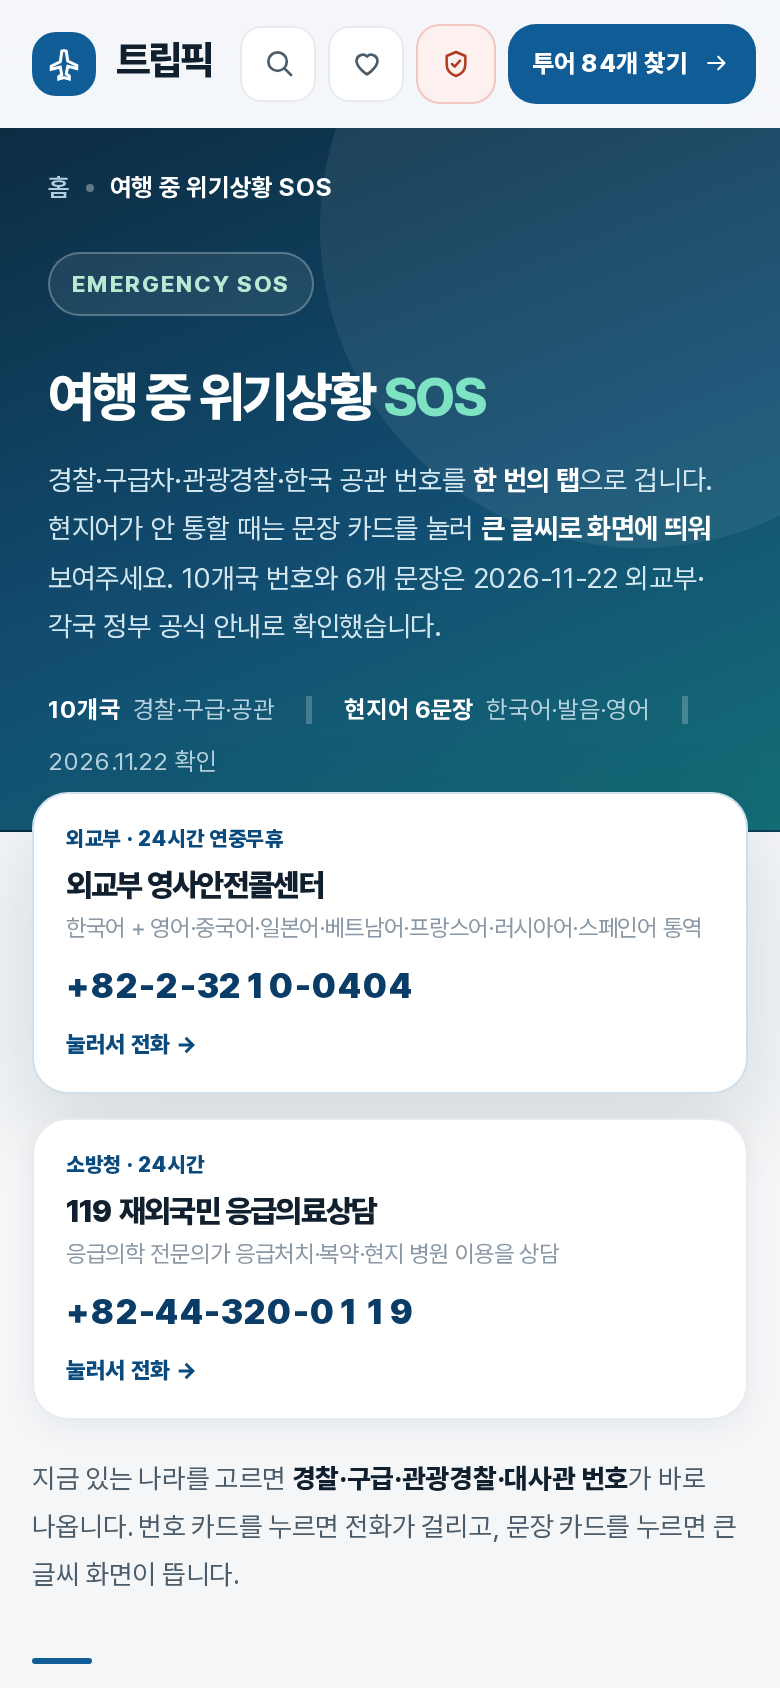
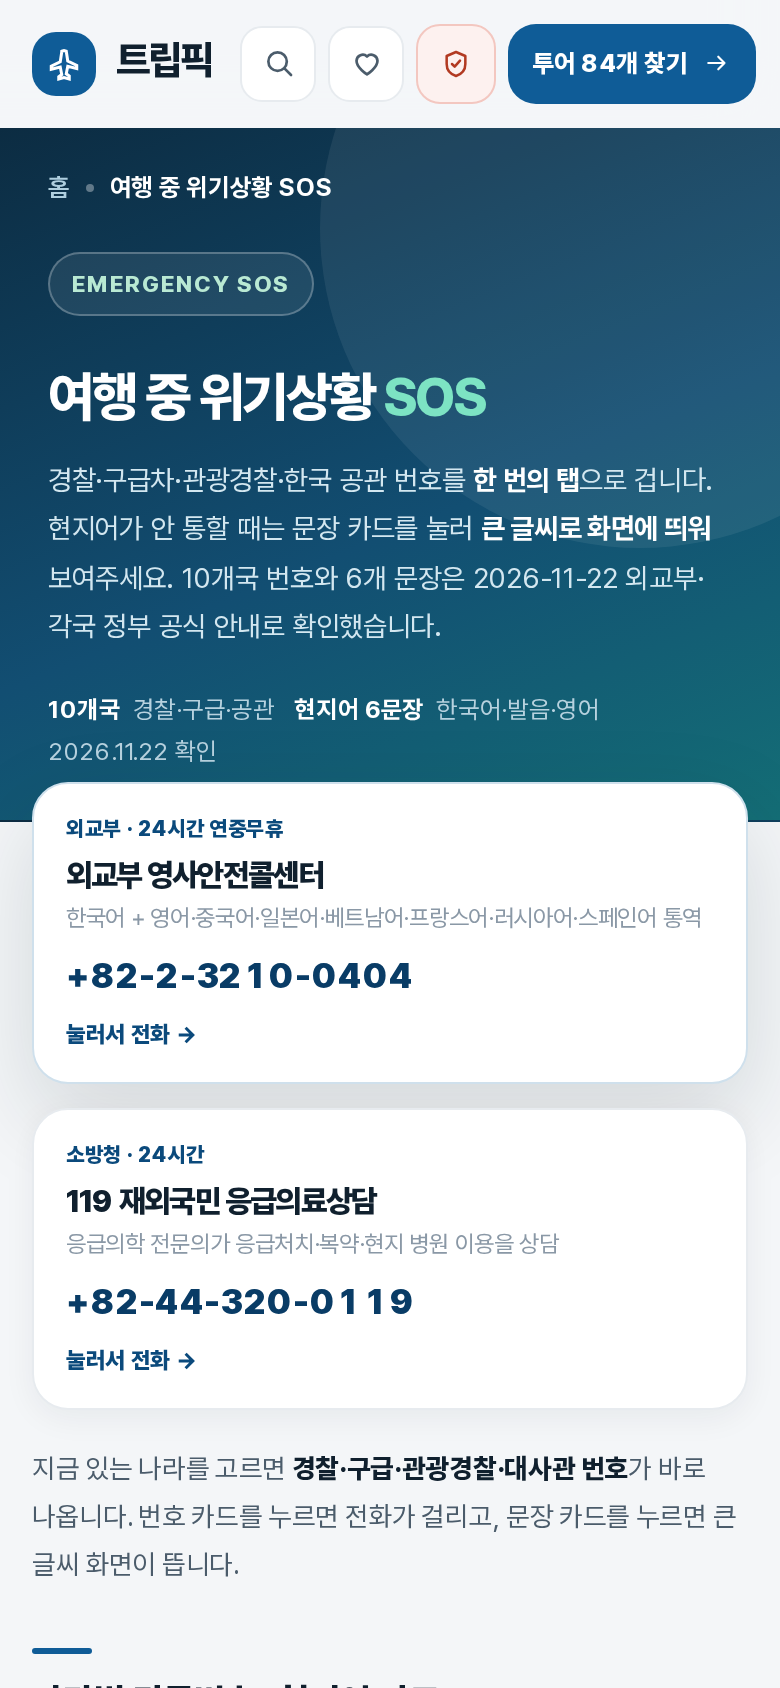
v44: README 라이브 검증 기록(122 URL 전부 200·/sos 10개국·현지어 카드)

diff --git a/README.md b/README.md
@@ -106,7 +106,7 @@ python3 build_pages.py --out ../deploy_site --base https://trippick-kr.netlify.a
 
 ## 변경 기록
 
-- **v44 (2026-11-22)** — **여행 중 위기상황 SOS `/sos` 신설 · 실전 가이드 3편(94편) · 보조배터리 기준 통일**: ① **`/sos` 정식 페이지** — 10개국(한국·일본·태국·베트남·대만·싱가포르·프랑스·이탈리아·스페인·영국)의 경찰·구급·소방·관광경찰·대사관·영사콜센터 번호 **79개**를 국가 탭으로 나누고, 번호 카드를 누르면 `tel:`로 바로 걸립니다(링크 121개). 상단에 **영사안전콜센터 +82-2-3210-0404**(24시간·7개 언어 통역)와 **119 재외국민 응급의료상담 +82-44-320-0119**(24시간·응급의학 전문의)를 고정 카드로 두고, 각국 **현지어 카드 6문장**(도와주세요·한국어 통역 부탁해요·여권을 잃어버렸어요·병원에 가야 해요·경찰을 불러 주세요·약국이 어디예요)을 누르면 **큰 글씨 전체 화면**(390px에서 39px, Esc·바깥 클릭으로 닫기, 포커스 복귀)으로 띄웁니다. 국가 선택은 `localStorage.trippick.sos.cc`에 남아 재방문 때도 유지되고, **JS가 없거나 인쇄할 때를 위해 10개국 번호 전체 표**(`sos-tb`)를 같은 페이지에 두었습니다. 화면 FAQ 5문항 + `WebPage`·`FAQPage`·`BreadcrumbList` JSON-LD, 2026-11-22 외교부·소방청·각국 정부 공식 안내 확인. ② **진입점** — 헤더 **도구 드롭다운 첫 항목**, 푸터 「여행」열, 그리고 이 사이트 헤더는 900px 이하에서 주요 메뉴가 숨으므로 **모바일 전용 SOS 버튼**(`hd-sos`, 560px 이하에서는 방패 아이콘만)을 헤더에 상시 노출했습니다. 위기상황 가이드 2편(여권·휴대폰·지갑 분실 / 해외 배탈·병원·보험 청구) 도입부에 「전화가 급하면 이 화면부터」 콜아웃으로 연결했고, 퀵서치 색인에도 `page` 종류(`/sos`)로 넣어 「경찰·병원·대사관」으로도 찾힙니다. ③ **실전 가이드 3편(91 → 94편)** — `passport-phone-lost-emergency`(분실 첫 10분 표, 긴급여권 공관별 실제 수수료 — 오사카 6,500엔·방콕 1,700바트·호치민 48달러·파리 43.20유로·타이베이 NT$1,536·한국 5만원, 통신사 분실정지 3사 번호, 신속해외송금 3,000달러), `overseas-sick-hospital-insurance-claim`(10개국 응급번호 표, 구급차 판단 신호, 인터내셔널 클리닉 vs 응급실, 약국 문장, 보험 청구 원본·진단명·처방전), `travel-hacks-hotel-flight-restaurant`(꿀팁 15선 — 체크인 48시간·미주 24시간, 얼리체크인 24시간 전 요청, DCC 3~8% 차단, 시차 동쪽 1시간/서쪽 1.5시간 등). 세 편 모두 목차·FAQ 5문항·FAQPage·히어로 1200×800·OG 1200×630(`images/v44/`, `images/og/v44-*`)이고 기존 가이드 7곳과 양방향으로 연결했습니다. ④ **보조배터리 기준 통일** — 기존 `packing-powerbank-liquid`는 이미 2026-04-20 ICAO 기준(1인 2개·160Wh 이하, 100Wh 초과~160Wh 승인, 교체용 100Wh 이하 5개, 기내 사용·충전 금지)으로 맞춰져 있었고, 새 꿀팁 글의 문장을 같은 숫자·같은 구분(100Wh 이하 승인 없이 / 100~160Wh 승인 / 교체용 5개)으로 고쳐 두 글의 기준을 일치시켰습니다. **검증**: `build.py` → 상품 84·도시 30·필수품 59, `build_pages.py --out ../deploy_site --base https://trippick.pages.dev --check-links` **HTML 125개·내부 링크 12,162개 실패 0**, `verify_v36.py` 전 항목 통과(페이지 123·가이드 94·찐숙소 102·sitemap **122 URL**·제휴 링크 1,708개·인라인 스크립트 230개), `verify_v41.py`(색인 386건)·`verify_v42.py`(파인더 13도시·sitemap 122)·`verify_v43.py`(★ 버튼 94편·sitemap 122)·`verify_v44.py`(신규, `/sos` 탭 10·tel 121·현지어 60·표·진입점·action.md 122개) 모두 통과. Chrome for Testing 1280·390px에서 `/sos` — 국가 전환(태국 191·1669·1155 tel 확인), 큰 글씨 카드(내용 일치·Esc 닫기), **가로 넘침 0·pageerror 0·콘솔 오류 0**을 확인했고, 가이드에서 `/sos`로 이동하는 콜아웃도 클릭으로 확인했습니다. CSS는 `?v=41`, 퀵서치는 `assets/tp-v43.js?v=2`, `/sos`는 `assets/tp-v44.js?v=1`. GSC 색인 요청 `action.md`는 사이트맵 기준을 **121 → 122개**로 올리고 `/sos` URL을 추가했습니다(프론트매터 유지). 대표 화면은 `v44_shots/sos_1280_top.png`·`sos_1280_th.png`·`sos_1280_table.png`·`sos_390_top.png`·`sos_390_jp.png`·`sos_390_phrase.png`·`sos_home_dropdown.png`입니다.
+- **v44 (2026-11-22)** — **여행 중 위기상황 SOS `/sos` 신설 · 실전 가이드 3편(94편) · 보조배터리 기준 통일**: ① **`/sos` 정식 페이지** — 10개국(한국·일본·태국·베트남·대만·싱가포르·프랑스·이탈리아·스페인·영국)의 경찰·구급·소방·관광경찰·대사관·영사콜센터 번호 **79개**를 국가 탭으로 나누고, 번호 카드를 누르면 `tel:`로 바로 걸립니다(링크 121개). 상단에 **영사안전콜센터 +82-2-3210-0404**(24시간·7개 언어 통역)와 **119 재외국민 응급의료상담 +82-44-320-0119**(24시간·응급의학 전문의)를 고정 카드로 두고, 각국 **현지어 카드 6문장**(도와주세요·한국어 통역 부탁해요·여권을 잃어버렸어요·병원에 가야 해요·경찰을 불러 주세요·약국이 어디예요)을 누르면 **큰 글씨 전체 화면**(390px에서 39px, Esc·바깥 클릭으로 닫기, 포커스 복귀)으로 띄웁니다. 국가 선택은 `localStorage.trippick.sos.cc`에 남아 재방문 때도 유지되고, **JS가 없거나 인쇄할 때를 위해 10개국 번호 전체 표**(`sos-tb`)를 같은 페이지에 두었습니다. 화면 FAQ 5문항 + `WebPage`·`FAQPage`·`BreadcrumbList` JSON-LD, 2026-11-22 외교부·소방청·각국 정부 공식 안내 확인. ② **진입점** — 헤더 **도구 드롭다운 첫 항목**, 푸터 「여행」열, 그리고 이 사이트 헤더는 900px 이하에서 주요 메뉴가 숨으므로 **모바일 전용 SOS 버튼**(`hd-sos`, 560px 이하에서는 방패 아이콘만)을 헤더에 상시 노출했습니다. 위기상황 가이드 2편(여권·휴대폰·지갑 분실 / 해외 배탈·병원·보험 청구) 도입부에 「전화가 급하면 이 화면부터」 콜아웃으로 연결했고, 퀵서치 색인에도 `page` 종류(`/sos`)로 넣어 「경찰·병원·대사관」으로도 찾힙니다. ③ **실전 가이드 3편(91 → 94편)** — `passport-phone-lost-emergency`(분실 첫 10분 표, 긴급여권 공관별 실제 수수료 — 오사카 6,500엔·방콕 1,700바트·호치민 48달러·파리 43.20유로·타이베이 NT$1,536·한국 5만원, 통신사 분실정지 3사 번호, 신속해외송금 3,000달러), `overseas-sick-hospital-insurance-claim`(10개국 응급번호 표, 구급차 판단 신호, 인터내셔널 클리닉 vs 응급실, 약국 문장, 보험 청구 원본·진단명·처방전), `travel-hacks-hotel-flight-restaurant`(꿀팁 15선 — 체크인 48시간·미주 24시간, 얼리체크인 24시간 전 요청, DCC 3~8% 차단, 시차 동쪽 1시간/서쪽 1.5시간 등). 세 편 모두 목차·FAQ 5문항·FAQPage·히어로 1200×800·OG 1200×630(`images/v44/`, `images/og/v44-*`)이고 기존 가이드 7곳과 양방향으로 연결했습니다. ④ **보조배터리 기준 통일** — 기존 `packing-powerbank-liquid`는 이미 2026-04-20 ICAO 기준(1인 2개·160Wh 이하, 100Wh 초과~160Wh 승인, 교체용 100Wh 이하 5개, 기내 사용·충전 금지)으로 맞춰져 있었고, 새 꿀팁 글의 문장을 같은 숫자·같은 구분(100Wh 이하 승인 없이 / 100~160Wh 승인 / 교체용 5개)으로 고쳐 두 글의 기준을 일치시켰습니다. **검증**: `build.py` → 상품 84·도시 30·필수품 59, `build_pages.py --out ../deploy_site --base https://trippick.pages.dev --check-links` **HTML 125개·내부 링크 12,162개 실패 0**, `verify_v36.py` 전 항목 통과(페이지 123·가이드 94·찐숙소 102·sitemap **122 URL**·제휴 링크 1,708개·인라인 스크립트 230개), `verify_v41.py`(색인 386건)·`verify_v42.py`(파인더 13도시·sitemap 122)·`verify_v43.py`(★ 버튼 94편·sitemap 122)·`verify_v44.py`(신규, `/sos` 탭 10·tel 121·현지어 60·표·진입점·action.md 122개) 모두 통과. Chrome for Testing 1280·390px에서 `/sos` — 국가 전환(태국 191·1669·1155 tel 확인), 큰 글씨 카드(내용 일치·Esc 닫기), **가로 넘침 0·pageerror 0·콘솔 오류 0**을 확인했고, 가이드에서 `/sos`로 이동하는 콜아웃도 클릭으로 확인했습니다. CSS는 `?v=42`, 퀵서치는 `assets/tp-v43.js?v=2`, `/sos`는 `assets/tp-v44.js?v=1`. GSC 색인 요청 `action.md`는 사이트맵 기준을 **121 → 122개**로 올리고 `/sos` URL을 추가했습니다(프론트매터 유지). 대표 화면은 `v44_shots/sos_1280_top.png`·`sos_1280_th.png`·`sos_1280_table.png`·`sos_390_top.png`·`sos_390_jp.png`·`sos_390_phrase.png`·`sos_home_dropdown.png`입니다. **라이브 확인(2026-11-22 21:08 KST·커밋 `c1c903e`)**: `sitemap.xml` **122 URL 전부 HTTP 200**(중복 0, `/sos` 포함), `/sos`(77,062B) — 국가 탭 10·번호 카드 79·현지어 카드 60·`tel:` 링크 121·화면 FAQ 5, canonical `https://trippick.pages.dev/sos`, `assets/tp-v44.js?v=1`·`assets/site.css?v=42` 로드 확인. Chrome for Testing 라이브 1280·390px에서 국가 전환(베트남 113·115·1087), 큰 글씨 카드(프랑스어 37자 2줄·오버레이 넘침 0·Esc 닫기·포커스 복귀), 홈 도구 드롭다운과 여권 분실 가이드 콜아웃 → `/sos` 이동, **가로 넘침 0·pageerror 0·콘솔 오류 0**을 확인했습니다. 라이브 화면은 `v44_shots/sos_live_1280.png`·`sos_live_390.png`·`sos_live_1280_phrase.png`·`sos_390_fr_interp.png`입니다.
 
 - **v43 (2026-11-22)** — **재방문 루프(내 여행 D-Day) · 가이드 ★ 참고 글 저장 · 실전 가이드 3편(91편)**: ① **내 여행 D-Day** — 홈 `#planner` 위와 `/checklist` 상단에 **도시(13곳) + 출발일**을 넣는 콤팩트 바를 두고, 저장하면 `localStorage.trippick.trip.v1`에 남겨 **재방문 때마다 자동으로** `내 여행 D-9 · 오사카 · 지금 할 일` 패널을 그립니다. 단계는 **D-14(투어·eSIM) → D-7(서류·보험) → D-3(짐·환전) → D-1(체크인·서류) → 현지(도착 후)** 5개이고, 선택된 단계에 맞춰 할 일 3개(각 `/passes`·`/baggage`·`/exchange`·`/checklist` 등 실제 페이지로 이동), 그 도시 **필수 가이드 2편**, **미예약 필수품 CTA**(일본 eSIM 3일 16,830원·베트남 17,850원·태국 14,450원·대만 12,580원, 국내는 `/stays`)를 함께 보여 줍니다. 값은 `build.py`가 `city_hubs.json`·`guides.json`·`essentials.json`에서 만들어 `#tpTripData` JSON으로 심고, JS는 D-day를 로컬 날짜로 계산합니다(자정 기준). 다른 페이지(가이드·도시·도구)에서는 저장된 여행이 있으면 **헤더 아래 얇은 띠**(`D-18 도쿄 · 지금 할 일 보기 → /#tpTrip`)로 이어지고, 홈·`/checklist`처럼 위젯이 있는 페이지에는 띠를 띄우지 않습니다. 수정·삭제 버튼과 “이 브라우저에만 저장” 안내를 넣었습니다. ② **★ 참고 글 저장** — 가이드 **91편 전체**의 상단 메타 아래에 `★ 참고 글 저장` 토글(`data-bm="/guides/<slug>.html"`, `localStorage.trippick.bookmarks.v1`)을 넣고, 헤더 ♥ 찜/견적 모달(`data-wl-open`) 안에 **「★ 저장한 참고 글 N편」** 섹션(제목·분류·읽기 시간·`빼기`)을 함께 띄웁니다. v42의 찜 견적서(1박·1인 합산·복사·스텝퍼)와 비교 바구니는 `content/v43.js`(→`assets/tp-v43.js`)에 그대로 이어받았고, 찜이 비어 있어도 저장한 참고 글이 보이도록 모달 렌더를 고쳤습니다. ③ **가이드 3편(88 → 91편)** — `airport-arrival-city-transfer-guide`(오사카 간사이 970엔·23:55, 도쿄 나리타 1,060엔·하네다 330엔·0:08, 후쿠오카 260엔·0:35, 방콕 45밧·24:00, 다낭 그랩 7만~15만동, 타이베이 160대만달러·23:35와 심야 도착 대안, 2인 왕복 최저 7,110~35,550원), `japan-convenience-store-must-buy`(파미치킨 248엔·나나치키 250.56엔·카라아게군 288엔·주먹밥 146~290엔, 600엔 이하 조합 3가지, 포장 8% vs 이트인 10%, 카카오페이·네이버페이 PayPay QR·트래블카드·세븐은행 ATM), `overseas-roaming-esim-install-troubleshooting`(데이터 회선→eSIM 회선 사용→데이터 로밍 1분 점검, 아이폰·갤럭시 설정 경로, 원인 7가지, 데이터 전환 허용 끄기, 로밍 9,900원 vs eSIM 590원·2인 4일 74,480원 차이, QR 1회용·삭제 금지). 세 편 모두 `auto_toc` 목차·읽기 시간·FAQ 5문항·FAQPage·1200×630 OG(`images/og/v43-*`)·히어로 1200×800·본문 `rel="noopener sponsored"` 제휴 링크를 갖고, 기존 공항·편의점·eSIM 가이드와 `guide_actions`의 `/stays`·`/checklist`, 본문의 `/passes`·도시 허브(오사카·도쿄·후쿠오카·다낭·방콕·타이베이)와 양방향으로 연결했습니다. 사진은 Wikimedia Commons CC0(간사이공항 난카이 개찰구)·Pexels 2장(주먹밥 진열대 Markus Winkler, eSIM 활성화 Joey Tran)이고 출처는 `data/photo_credits.json`에 남겼습니다. ④ **검증** — `build.py`(상품 84·도시 30·필수품 59) → `build_pages.py --out ../deploy_site --base https://trippick.pages.dev --check-links` **HTML 121개·내부 링크 11,461개 실패 0**, `verify_v36.py` 전 항목 통과(가이드 91·찐숙소 102·sitemap **118 URL**·제휴 링크 1,699개·인라인 스크립트 223개·구 유로 환율 0), `verify_v41.py`(색인 382건·가이드 91)·`verify_v42.py`(찜 견적서·파인더 13개 도시)·`verify_v43.py`(신규 3편 목차·FAQ·OG·양방향 연결, ★ 버튼 91편, D-Day 13도시 5단계, action.md 118개) 모두 통과. `tools/verify_v41.py`·`verify_v42.py`는 가이드 편수·자산 이름을 데이터/최신 자산(`tp-v43.js`) 기준으로 바꿔 이후 릴리스에서도 같은 검사를 이어가게 했습니다. Chrome for Testing 1280·390px에서 — 홈에서 오사카·D+14 저장 → **D-14 배지·할 일 3개·가이드 2편·eSIM CTA**, 새로고침 후 유지, `/checklist` 위젯 동기화, 가이드에서 ★ 저장 → `aria-pressed=true` → 헤더 ♥ 모달 **「저장한 참고 글 1편」**, 다른 가이드에서 **D-18 띠**, 신규 3편 렌더(목차 10/7/8·히어로 1200px) — **가로 넘침 0·pageerror 0·콘솔 오류 0**. CSS는 `?v=40`, JS는 `assets/tp-v43.js?v=1`(구 `tp-v42.js` 삭제). 대표 화면은 `v43_shots/v43_home_dday_1280.png`·`v43_bookmark_modal_1280.png`·`v43_guide_strip_390.png`·`v43_checklist_390.png`입니다.
 **라이브 확인(2026-11-22 20:26 KST·커밋 `d15acb2`)**: `sitemap.xml` **118 URL 전부 HTTP 200**(중복 0), 신규 3편 `/guides/airport-arrival-city-transfer-guide`(66,918B)·`/guides/japan-convenience-store-must-buy`(58,266B)·`/guides/overseas-roaming-esim-install-troubleshooting`(59,357B) 200, 라이브 홈(1,625,882B)에 `tp-v43.js`·`#tpTrip`·`tpTripData`(도시 13·단계 5), `/checklist`(90,063B)에 같은 위젯, `assets/tp-v43.js`(48,887B)·`assets/site.css?v=40`(295,851B)·`images/og/v43-*` 200. 라이브 HTML은 `tp-v43.js`만 참조하고 `tp-v42.js` 참조 0건(구 파일은 저장소에서 삭제). Chrome for Testing으로 라이브 1280·390px에서 — 홈에서 **오사카·D+14 저장 → D-14 배지·할 일 3개(투어·eSIM·패스)·가이드 2편·일본 eSIM CTA**, 새로고침 후 유지, 가이드에서 **★ 저장 → aria-pressed=true → 헤더 ♥ 모달 「저장한 참고 글 1편」**, 저장된 여행으로 가이드 상단 **D-14 띠**, 신규 3편 **목차 10/7/8·화면 FAQ 5문항·히어로 1200px**, **가로 넘침 0·pageerror 0·콘솔 오류 0**. 라이브 화면은 `v43_shots/v43_live_home_dday_1280.png`·`v43_live_home_dday_390.png`·`v43_live_bookmark_modal_1280.png`·`v43_live_guide_top_1280.png`·`v43_live_faq_1280.png`입니다.
